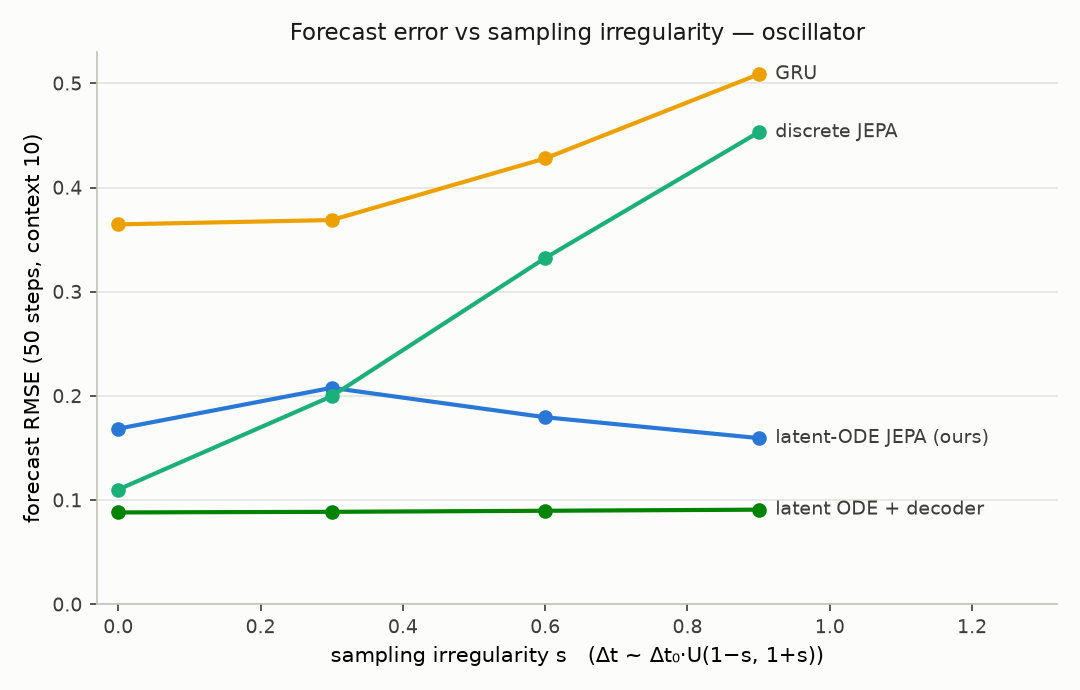
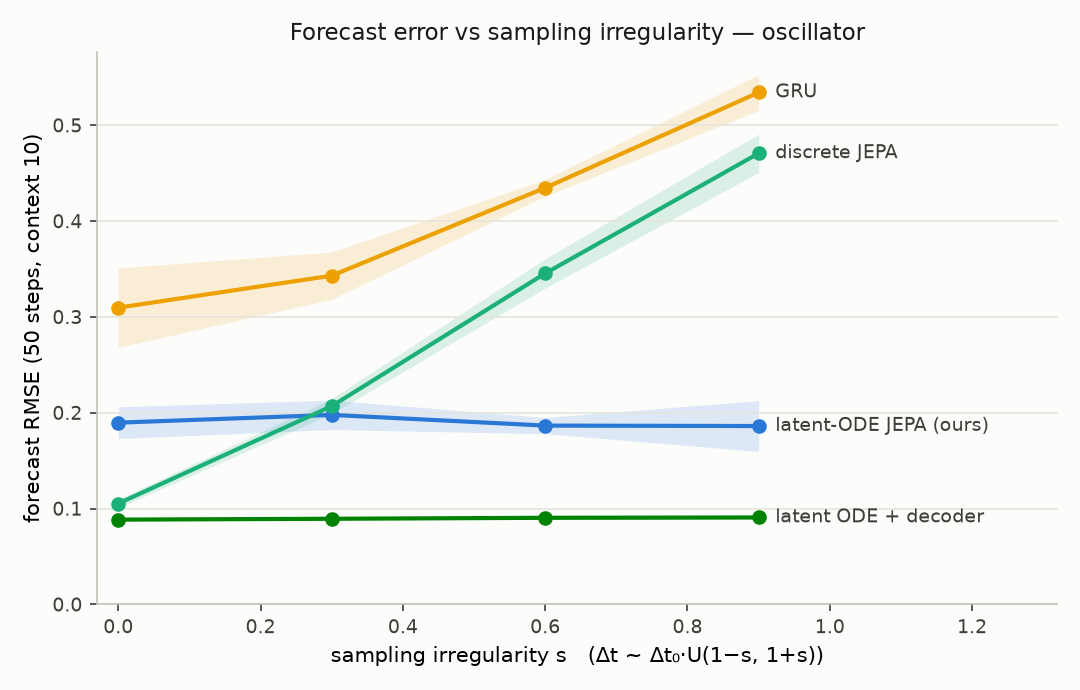
Phase 1 rerun with 3 seeds: H1 confirmed with error bands
ours flat at 0.19 +- 0.02 across all irregularity levels; discrete JEPA
degrades 4.5x (0.105 -> 0.471), GRU worsens, lode flat. Bands tight and
non-overlapping where it matters. Also: CharacterTrajectories data
pipeline (UCI, irregular subsampling + Takens delay embedding) and the
phase-9 real-data classifier experiment.

Changed region(s): [[0.0306, 0.0913, 0.9167, 0.7609]]

diff --git a/experiments/phase9.py b/experiments/phase9.py
@@ -1,0 +1,152 @@
+"""Phase 9: dynamics-consistency classification on REAL data
+(CharacterTrajectories, irregularly subsampled) + open-set.
+
+One UnifiedLatentODE per character class, trained only on that class's
+series; assignment by lowest mean z-scored decoded-rollout residual.
+Two characters ('w', 'z') are held out of ALL training as the unseen
+regimes for open-set rejection. Baseline: supervised GRU classifier with
+max-softmax rejection. Both thresholds at 95% in-distribution acceptance.
+
+Usage: python3 experiments/phase9.py [--seeds 0]
+"""
+
+import argparse
+import json
+import sys
+import time
+from pathlib import Path
+
+import numpy as np
+import torch
+import torch.nn as nn
+import torch.nn.functional as F
+
+ROOT = Path(__file__).resolve().parents[1]
+sys.path.insert(0, str(ROOT))
+from latentode.chartraj import make_splits
+from latentode.model import mlp
+from latentode.unified import UnifiedLatentODE, train_unified
+
+CONTEXT = 8
+UNSEEN_CHARS = ["w", "z"]
+
+
[email redacted]_grad()
+def residual_series(model, obs, times):
+    z_c = model.encode(obs[:, CONTEXT - 1])
+    dts = times[:, CONTEXT:] - times[:, CONTEXT - 1:-1]
+    preds = model.decoder(model.rollout(z_c, dts))
+    return (preds - obs[:, CONTEXT:]).norm(dim=-1)
+
+
+class ClassField:
+    def __init__(self, n_obs, train_split, calib_split, seed, epochs, d):
+        torch.manual_seed(seed)
+        self.model = UnifiedLatentODE(n_obs=n_obs, d=d)
+        data = {"train": train_split}
+        train_unified(self.model, data, epochs=epochs, batch_size=64,
+                      seed=seed, verbose=False)
+        r = residual_series(self.model, calib_split["obs"], calib_split["times"])
+        self.mu, self.sd = r.mean(0), r.std(0).clamp_min(1e-6)
+        self.tau = self.score(calib_split["obs"], calib_split["times"]).quantile(0.95)
+
+    def score(self, obs, times):
+        r = residual_series(self.model, obs, times)
+        return ((r - self.mu) / self.sd).mean(dim=1)
+
+
+class GRUClassifier(nn.Module):
+    def __init__(self, n_obs, n_classes, hidden=128):
+        super().__init__()
+        self.gru = nn.GRU(n_obs + 1, hidden, batch_first=True)
+        self.head = mlp([hidden, hidden, n_classes])
+
+    def forward(self, obs, times):
+        dts = times[:, 1:] - times[:, :-1]
+        dts = torch.cat([torch.zeros(obs.shape[0], 1), dts], dim=1)
+        h, _ = self.gru(torch.cat([obs, dts[..., None]], dim=-1))
+        return self.head(h[:, -1])
+
+
+def run_seed(seed, epochs, d):
+    data = make_splits(seed=seed)
+    keys, n_obs = data["keys"], data["n_obs"]
+    known = [c for c in range(len(keys)) if keys[c] not in UNSEEN_CHARS]
+    unseen = [c for c in range(len(keys)) if keys[c] in UNSEEN_CHARS]
+
+    t0 = time.time()
+    fields = {}
+    for c in known:
+        fields[c] = ClassField(n_obs, data["train"][c], data["calib"][c],
+                               seed, epochs, d)
+    print(f"  seed={seed}: {len(known)} class fields trained ({time.time()-t0:.0f}s)",
+          flush=True)
+
+    # Supervised baseline on the same known classes.
+    tr_obs = torch.cat([data["train"][c]["obs"] for c in known])
+    tr_times = torch.cat([data["train"][c]["times"] for c in known])
+    tr_y = torch.cat([torch.full((len(data["train"][c]["obs"]),), i)
+                      for i, c in enumerate(known)])
+    torch.manual_seed(seed)
+    clf = GRUClassifier(n_obs, len(known))
+    opt = torch.optim.Adam(clf.parameters(), lr=1e-3)
+    for _ in range(80):
+        perm = torch.randperm(len(tr_obs))
+        for i in range(0, len(tr_obs), 128):
+            idx = perm[i:i + 128]
+            loss = F.cross_entropy(clf(tr_obs[idx], tr_times[idx]), tr_y[idx])
+            opt.zero_grad(); loss.backward(); opt.step()
+    with torch.no_grad():
+        cal_probs = torch.cat([
+            F.softmax(clf(data["calib"][c]["obs"], data["calib"][c]["times"]), -1)
+            .max(-1).values for c in known])
+    clf_tau = cal_probs.quantile(0.05)
+
+    # Closed-set accuracy over the known classes.
+    n_gen = n_disc = total = 0
+    for i, c in enumerate(known):
+        obs, times = data["test"][c]["obs"], data["test"][c]["times"]
+        scores = torch.stack([fields[k].score(obs, times) for k in known], dim=1)
+        n_gen += (scores.argmin(dim=1) == i).sum().item()
+        with torch.no_grad():
+            n_disc += (clf(obs, times).argmax(-1) == i).sum().item()
+        total += len(obs)
+
+    # Open-set on the held-out characters.
+    obs = torch.cat([data["test"][c]["obs"] for c in unseen])
+    times = torch.cat([data["test"][c]["times"] for c in unseen])
+    scores = torch.stack([fields[k].score(obs, times) for k in known], dim=1)
+    taus = torch.stack([fields[k].tau for k in known])
+    gen_reject = (scores > taus).all(dim=1).float().mean().item()
+    with torch.no_grad():
+        probs = F.softmax(clf(obs, times), -1).max(-1).values
+    disc_reject = (probs < clf_tau).float().mean().item()
+
+    return {"acc_gen": n_gen / total, "acc_disc": n_disc / total,
+            "openset_reject_gen": gen_reject, "openset_reject_disc": disc_reject,
+            "n_test": total, "n_unseen": len(obs)}
+
+
+def main():
+    p = argparse.ArgumentParser()
+    p.add_argument("--seeds", type=int, nargs="+", default=[0])
+    p.add_argument("--epochs", type=int, default=300)
+    p.add_argument("--d", type=int, default=12)
+    args = p.parse_args()
+
+    results = {"args": vars(args), "unseen": UNSEEN_CHARS, "runs": []}
+    for seed in args.seeds:
+        r = run_seed(seed, args.epochs, args.d)
+        results["runs"].append({"seed": seed, **r})
+        print(f"  seed={seed} acc gen {r['acc_gen']:.3f} | disc {r['acc_disc']:.3f} | "
+              f"openset reject gen {r['openset_reject_gen']:.0%} vs disc "
+              f"{r['openset_reject_disc']:.0%}", flush=True)
+
+    (ROOT / "results" / "phase9_chartraj.json").write_text(json.dumps(results, indent=2))
+    print("\n== mean over seeds ==")
+    for k in ("acc_gen", "acc_disc", "openset_reject_gen", "openset_reject_disc"):
+        print(f"  {k:22s} {np.mean([r[k] for r in results['runs']]):.3f}")
+
+
+if __name__ == "__main__":
+    main()

diff --git a/latentode/chartraj.py b/latentode/chartraj.py
@@ -1,0 +1,69 @@
+"""CharacterTrajectories (UCI): real irregularly-subsampled benchmark.
+
+2858 pen-tip trajectories (vx, vy, force @ 200Hz), 20 character classes.
+Pipeline: subsample K random time points per sequence (irregular dt by
+construction, mirroring the Neural CDE dropped-data setting), then Takens
+delay-embed m consecutive OBSERVED samples plus their gaps — a character is
+not autonomous in raw obs space (the same instantaneous velocity occurs at
+several points of a letter); the delay embedding reconstructs a state the
+per-frame encoder can work with.
+"""
+
+import numpy as np
+import torch
+from scipy.io import loadmat
+
+DT_NATIVE = 0.005  # 200 Hz
+
+
+def load_chartraj(path="data/mixoutALL_shifted.mat"):
+    m = loadmat(path)
+    seqs = [s.astype(np.float32) for s in m["mixout"][0]]          # each [3, L]
+    labels = m["consts"]["charlabels"][0, 0][0].astype(int) - 1     # 0..19
+    keys = [str(k[0]) for k in m["consts"]["key"][0, 0][0]]
+    return seqs, labels, keys
+
+
+def build_series(seqs, K=40, m=4, seed=0):
+    """Subsample + delay-embed. Returns obs [N, K-m+1, 3m+(m-1)], times [N, K-m+1]."""
+    rng = np.random.default_rng(seed)
+    all_obs, all_times = [], []
+    for s in seqs:
+        L = s.shape[1]
+        idx = np.sort(rng.choice(L, size=K, replace=False))
+        t = idx * DT_NATIVE
+        x = s[:, idx].T                                   # [K, 3]
+        rows = []
+        for j in range(m - 1, K):
+            lags = [x[j - i] for i in range(m)]           # current + m-1 past samples
+            gaps = [t[j - i] - t[j - i - 1] for i in range(m - 1)]
+            rows.append(np.concatenate(lags + [np.array(gaps, dtype=np.float32)]))
+        all_obs.append(np.stack(rows))
+        all_times.append(t[m - 1:])
+    return torch.from_numpy(np.stack(all_obs)), torch.from_numpy(np.stack(all_times).astype(np.float32))
+
+
+def make_splits(K=40, m=4, seed=0, path="data/mixoutALL_shifted.mat"):
+    """Per-class 60/20/20 train/calib/test splits, globally standardized obs."""
+    seqs, labels, keys = load_chartraj(path)
+    obs, times = build_series(seqs, K=K, m=m, seed=seed)
+
+    rng = np.random.default_rng(seed)
+    splits = {"train": [], "calib": [], "test": []}
+    for c in range(len(keys)):
+        idx = np.where(labels == c)[0]
+        rng.shuffle(idx)
+        n = len(idx)
+        splits["train"].append((c, idx[:int(0.6 * n)]))
+        splits["calib"].append((c, idx[int(0.6 * n):int(0.8 * n)]))
+        splits["test"].append((c, idx[int(0.8 * n):]))
+
+    train_idx = np.concatenate([i for _, i in splits["train"]])
+    mean = obs[train_idx].reshape(-1, obs.shape[-1]).mean(0)
+    std = obs[train_idx].reshape(-1, obs.shape[-1]).std(0).clamp_min(1e-6)
+    obs = (obs - mean) / std
+
+    out = {"keys": keys, "n_obs": obs.shape[-1]}
+    for split, pairs in splits.items():
+        out[split] = {c: {"obs": obs[i], "times": times[i]} for c, i in pairs}
+    return out

diff --git a/experiments/phase1.py b/experiments/phase1.py
@@ -47,7 +47,7 @@ def main():
     p.add_argument("--jitters", type=float, nargs="+", default=[0.0, 0.3, 0.6, 0.9])
     p.add_argument("--d", type=int, default=8)
     p.add_argument("--epochs", type=int, default=300)
-    p.add_argument("--seed", type=int, default=0)
+    p.add_argument("--seeds", type=int, nargs="+", default=[0])
     args = p.parse_args()
 
     n_obs = 50
@@ -62,15 +62,16 @@ def main():
 
     results = {"args": vars(args), "sweep": []}
     for s in args.jitters:
-        data = make_dataset(system=args.system, jitter=s, seed=args.seed)
-        row = {"jitter": s, "models": {}}
-        for name, build in builders.items():
-            torch.manual_seed(args.seed)
-            t0 = time.time()
-            fc = runners[name](build(), data, args.seed, args.epochs)
-            row["models"][name] = fc
-            print(f"jitter={s:.1f} {name:6s} rmse={fc['mean_rmse']:.4f} ({time.time()-t0:.0f}s)",
-                  flush=True)
+        row = {"jitter": s, "models": {name: [] for name in builders}}
+        for seed in args.seeds:
+            data = make_dataset(system=args.system, jitter=s, seed=seed)
+            for name, build in builders.items():
+                torch.manual_seed(seed)
+                t0 = time.time()
+                fc = runners[name](build(), data, seed, args.epochs)
+                row["models"][name].append(fc)
+                print(f"jitter={s:.1f} seed={seed} {name:6s} rmse={fc['mean_rmse']:.4f} "
+                      f"({time.time()-t0:.0f}s)", flush=True)
         results["sweep"].append(row)
 
     results_dir = Path(__file__).resolve().parents[1] / "results"
@@ -79,10 +80,13 @@ def main():
     out.write_text(json.dumps(results, indent=2))
     print(f"\nsaved {out}")
 
-    print(f"\n{'jitter':>6s} | " + " | ".join(f"{m:>8s}" for m in builders))
+    print(f"\n{'jitter':>6s} | " + " | ".join(f"{m:>15s}" for m in builders))
     for row in results["sweep"]:
-        print(f"{row['jitter']:6.1f} | " + " | ".join(
-            f"{row['models'][m]['mean_rmse']:8.4f}" for m in builders))
+        cells = []
+        for m in builders:
+            vals = torch.tensor([fc["mean_rmse"] for fc in row["models"][m]])
+            cells.append(f"{vals.mean():.4f} ± {vals.std().nan_to_num():.4f}")
+        print(f"{row['jitter']:6.1f} | " + " | ".join(f"{c:>15s}" for c in cells))
 
 
 if __name__ == "__main__":

diff --git a/experiments/plot_phase1.py b/experiments/plot_phase1.py
@@ -32,9 +32,19 @@ def main():
     fig, ax = plt.subplots(figsize=(7.2, 4.6), facecolor="#fcfcfb")
     ax.set_facecolor("#fcfcfb")
     for key, (label, color) in MODELS.items():
-        rmse = [row["models"][key]["mean_rmse"] for row in data["sweep"]]
-        ax.plot(jitters, rmse, color=color, lw=2, marker="o", ms=6, label=label)
-        ax.annotate(label, (jitters[-1], rmse[-1]), xytext=(8, 0),
+        cells = [row["models"][key] for row in data["sweep"]]
+        # single-seed rows are dicts; multi-seed rows are lists of dicts
+        per_seed = [[c["mean_rmse"]] if isinstance(c, dict)
+                    else [fc["mean_rmse"] for fc in c] for c in cells]
+        mean = [sum(v) / len(v) for v in per_seed]
+        std = [(sum((x - m) ** 2 for x in v) / len(v)) ** 0.5
+               for v, m in zip(per_seed, mean)]
+        ax.plot(jitters, mean, color=color, lw=2, marker="o", ms=6, label=label)
+        if any(s > 0 for s in std):
+            ax.fill_between(jitters, [m - s for m, s in zip(mean, std)],
+                            [m + s for m, s in zip(mean, std)], color=color,
+                            alpha=0.15, lw=0)
+        ax.annotate(label, (jitters[-1], mean[-1]), xytext=(8, 0),
                     textcoords="offset points", va="center", fontsize=9, color="#3d3d3a")
 
     ax.set_xlabel("sampling irregularity s   (Δt ~ Δt₀·U(1−s, 1+s))", fontsize=10)